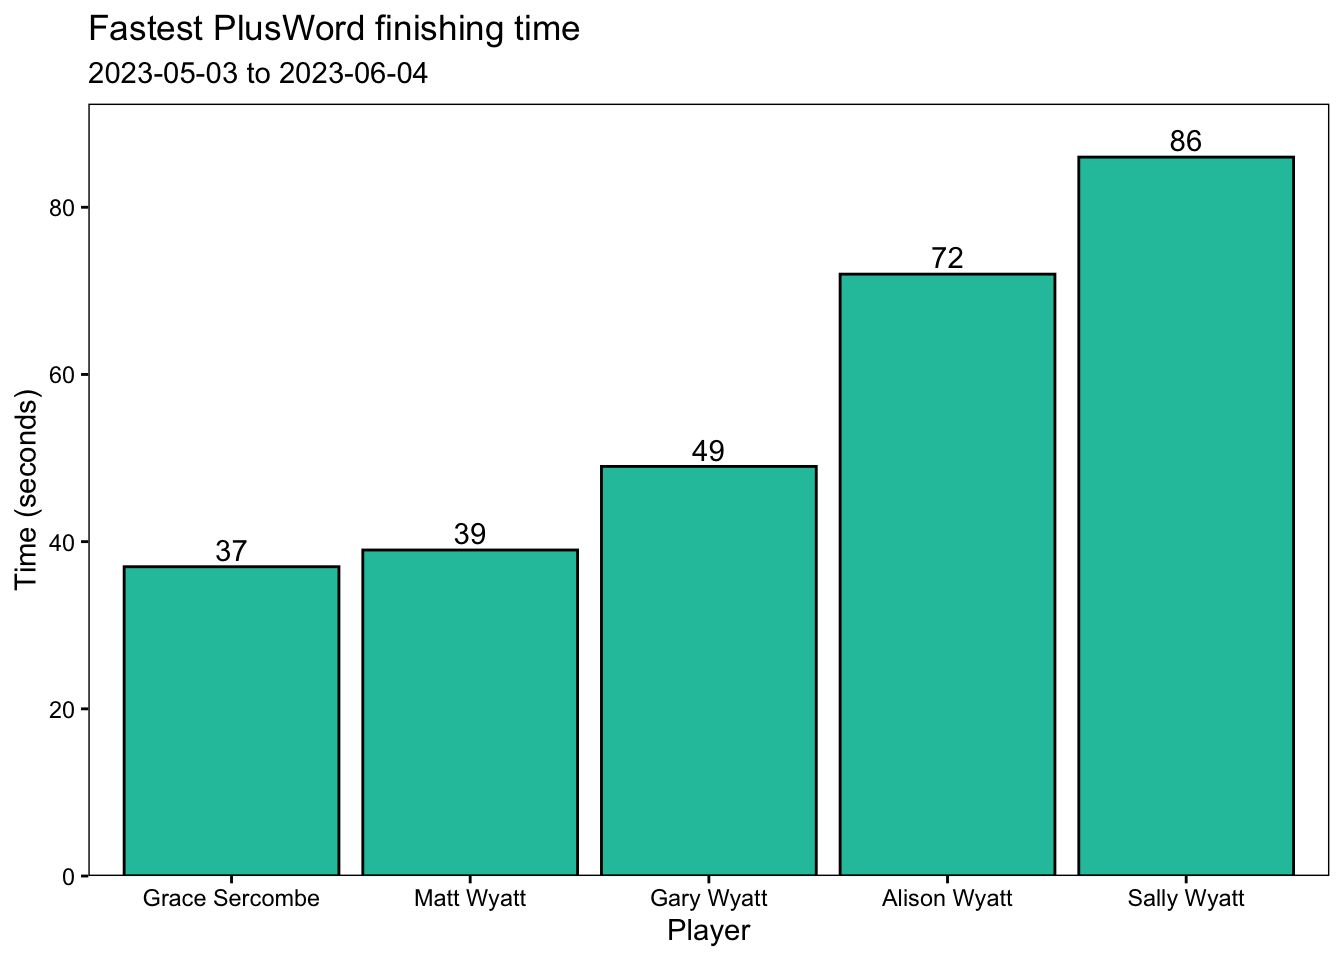
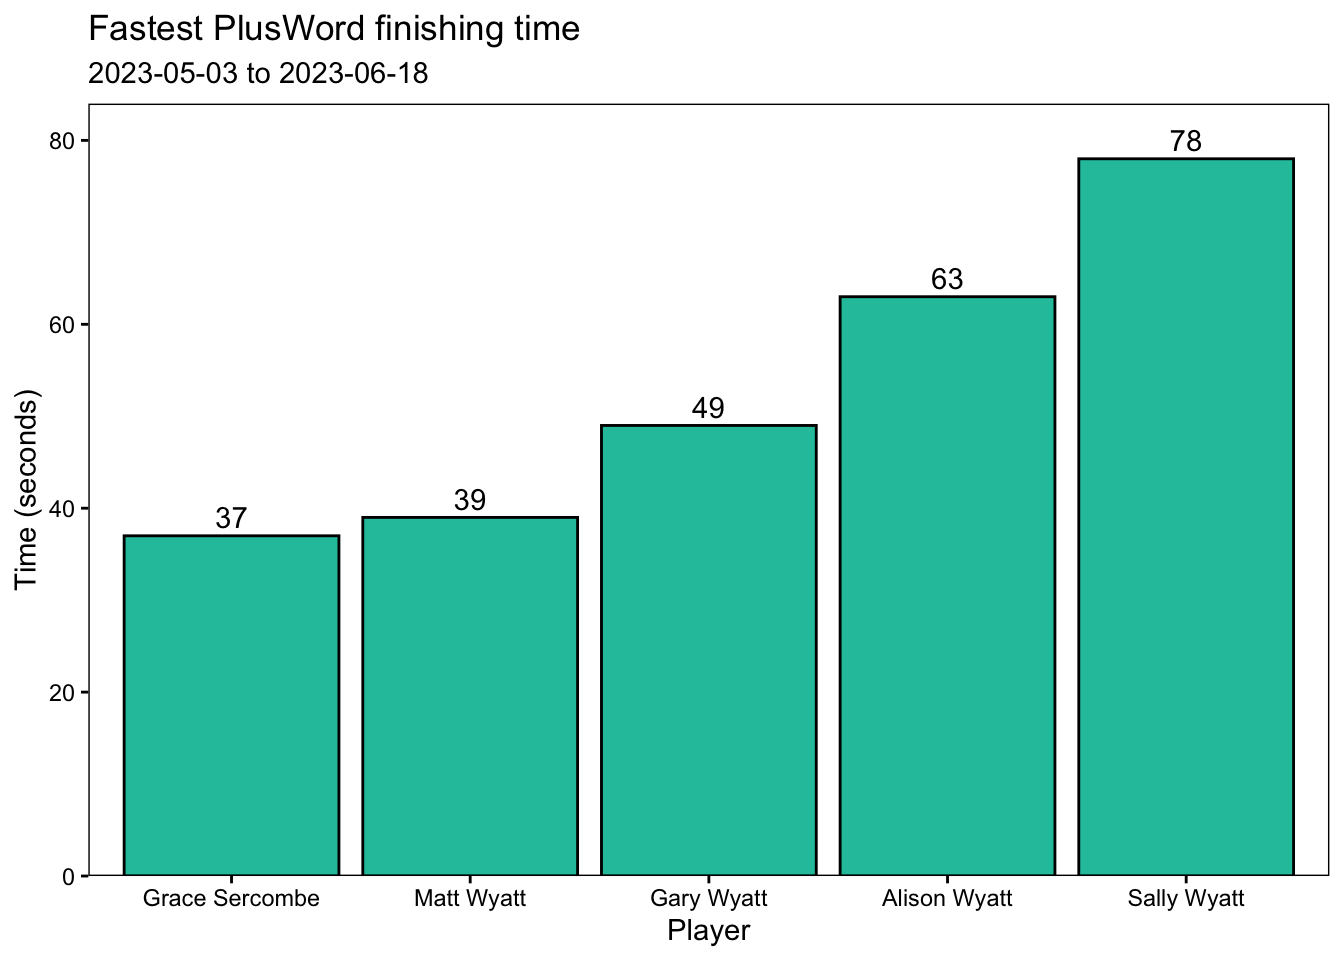
Latest set of results

diff --git a/plusword_analysis.html b/plusword_analysis.html
@@ -85,48 +85,48 @@ ul.task-list li input[type="checkbox"] {
 <tbody>
 <tr class="odd">
 <td style="text-align: left;">Grace Sercombe</td>
-<td style="text-align: right;">13</td>
+<td style="text-align: right;">20</td>
+<td style="text-align: right;">8</td>
 <td style="text-align: right;">7</td>
-<td style="text-align: right;">4</td>
-<td style="text-align: right;">7</td>
+<td style="text-align: right;">9</td>
 <td style="text-align: right;">0</td>
-<td style="text-align: right;">31</td>
+<td style="text-align: right;">44</td>
 </tr>
 <tr class="even">
 <td style="text-align: left;">Matt Wyatt</td>
-<td style="text-align: right;">12</td>
-<td style="text-align: right;">12</td>
+<td style="text-align: right;">18</td>
+<td style="text-align: right;">19</td>
 <td style="text-align: right;">3</td>
-<td style="text-align: right;">4</td>
+<td style="text-align: right;">5</td>
 <td style="text-align: right;">1</td>
-<td style="text-align: right;">32</td>
+<td style="text-align: right;">46</td>
 </tr>
 <tr class="odd">
 <td style="text-align: left;">Gary Wyatt</td>
-<td style="text-align: right;">5</td>
-<td style="text-align: right;">8</td>
+<td style="text-align: right;">6</td>
 <td style="text-align: right;">12</td>
-<td style="text-align: right;">2</td>
+<td style="text-align: right;">18</td>
+<td style="text-align: right;">5</td>
 <td style="text-align: right;">4</td>
-<td style="text-align: right;">31</td>
+<td style="text-align: right;">45</td>
 </tr>
 <tr class="even">
 <td style="text-align: left;">Alison Wyatt</td>
 <td style="text-align: right;">1</td>
-<td style="text-align: right;">5</td>
-<td style="text-align: right;">10</td>
-<td style="text-align: right;">10</td>
-<td style="text-align: right;">3</td>
-<td style="text-align: right;">29</td>
+<td style="text-align: right;">7</td>
+<td style="text-align: right;">13</td>
+<td style="text-align: right;">15</td>
+<td style="text-align: right;">7</td>
+<td style="text-align: right;">43</td>
 </tr>
 <tr class="odd">
 <td style="text-align: left;">Sally Wyatt</td>
 <td style="text-align: right;">1</td>
-<td style="text-align: right;">0</td>
-<td style="text-align: right;">4</td>
-<td style="text-align: right;">6</td>
-<td style="text-align: right;">7</td>
-<td style="text-align: right;">18</td>
+<td style="text-align: right;">1</td>
+<td style="text-align: right;">5</td>
+<td style="text-align: right;">9</td>
+<td style="text-align: right;">14</td>
+<td style="text-align: right;">30</td>
 </tr>
 </tbody>
 </table>
